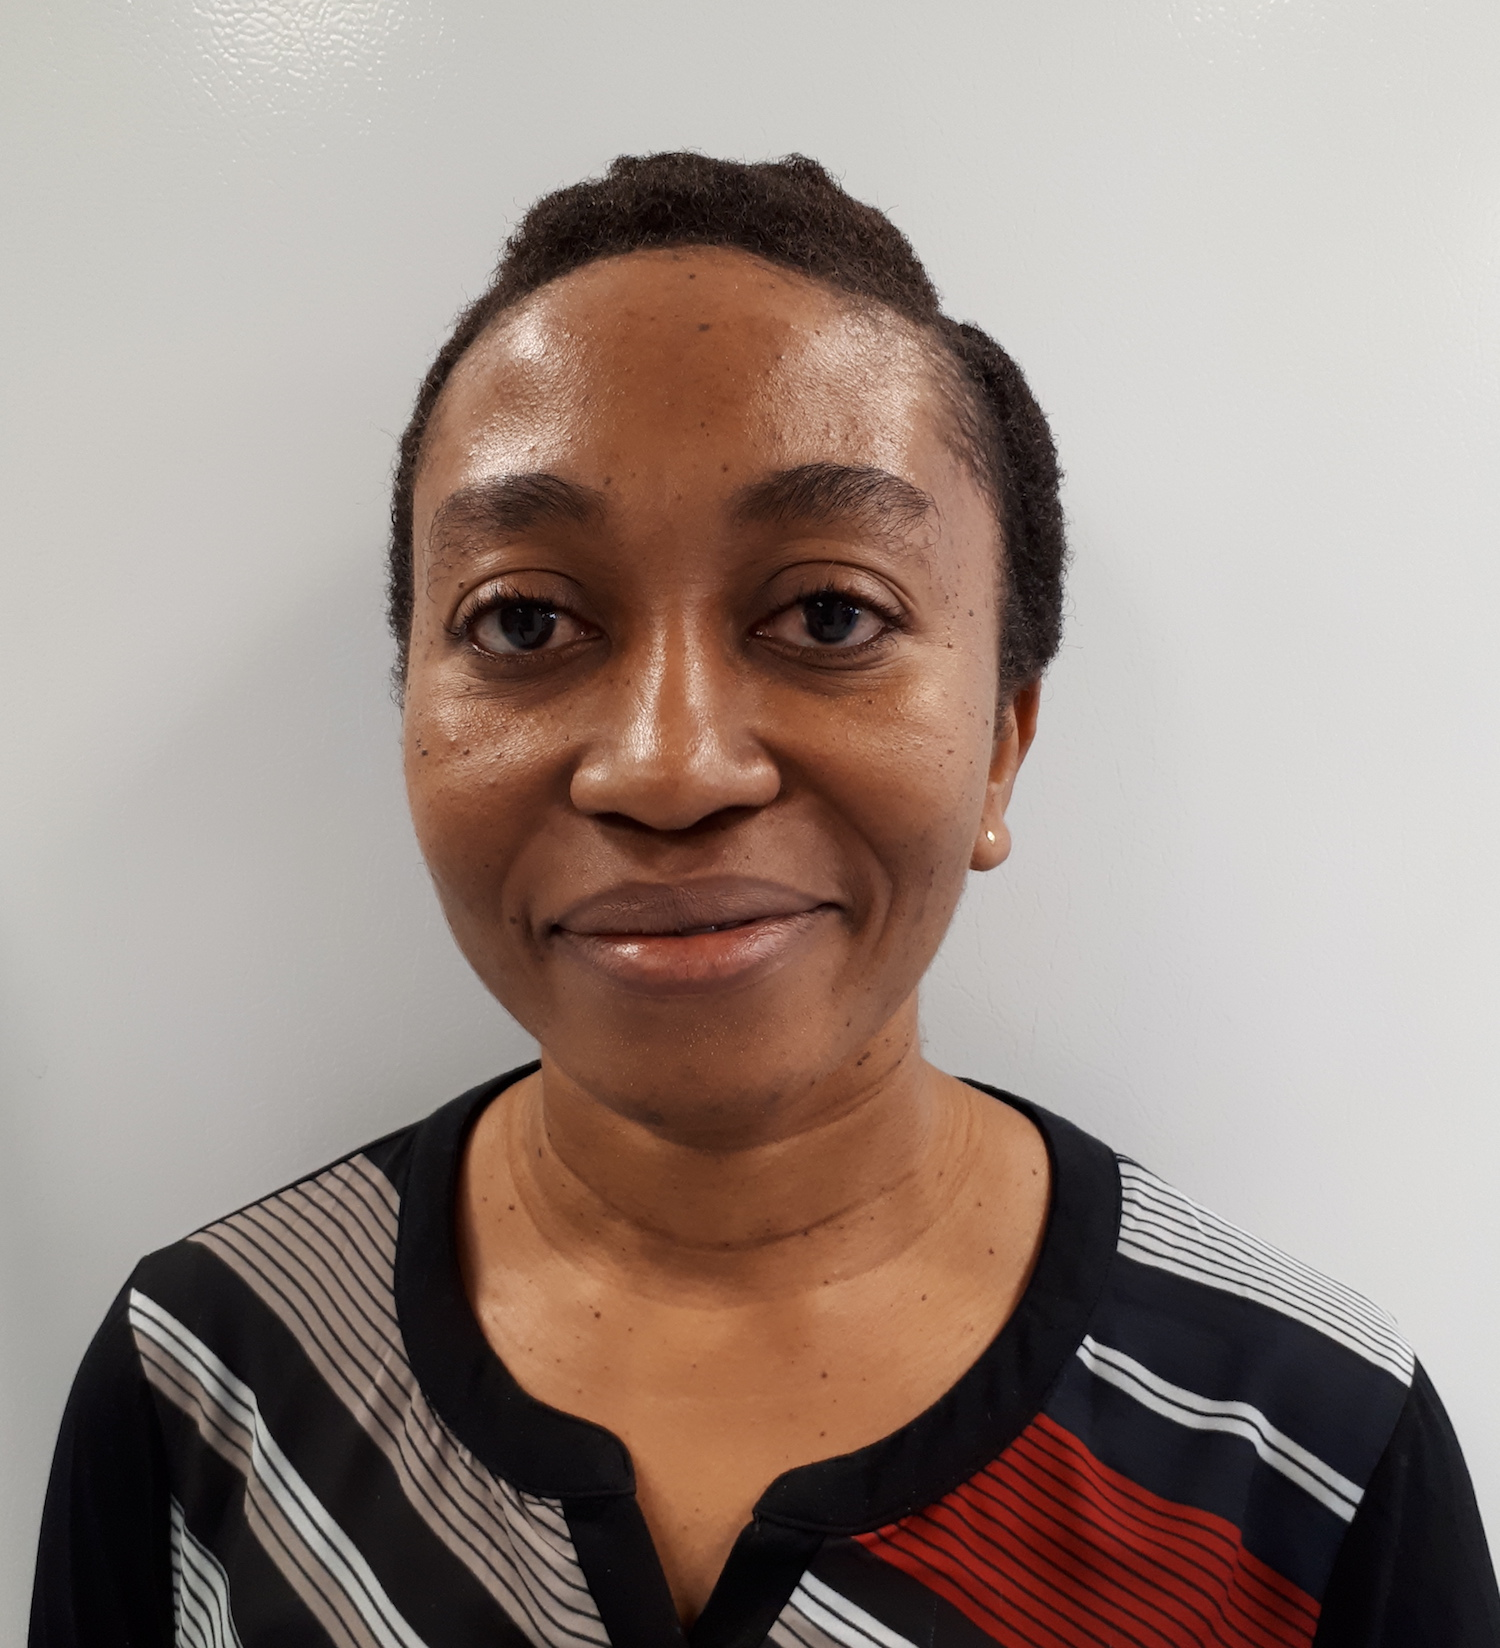
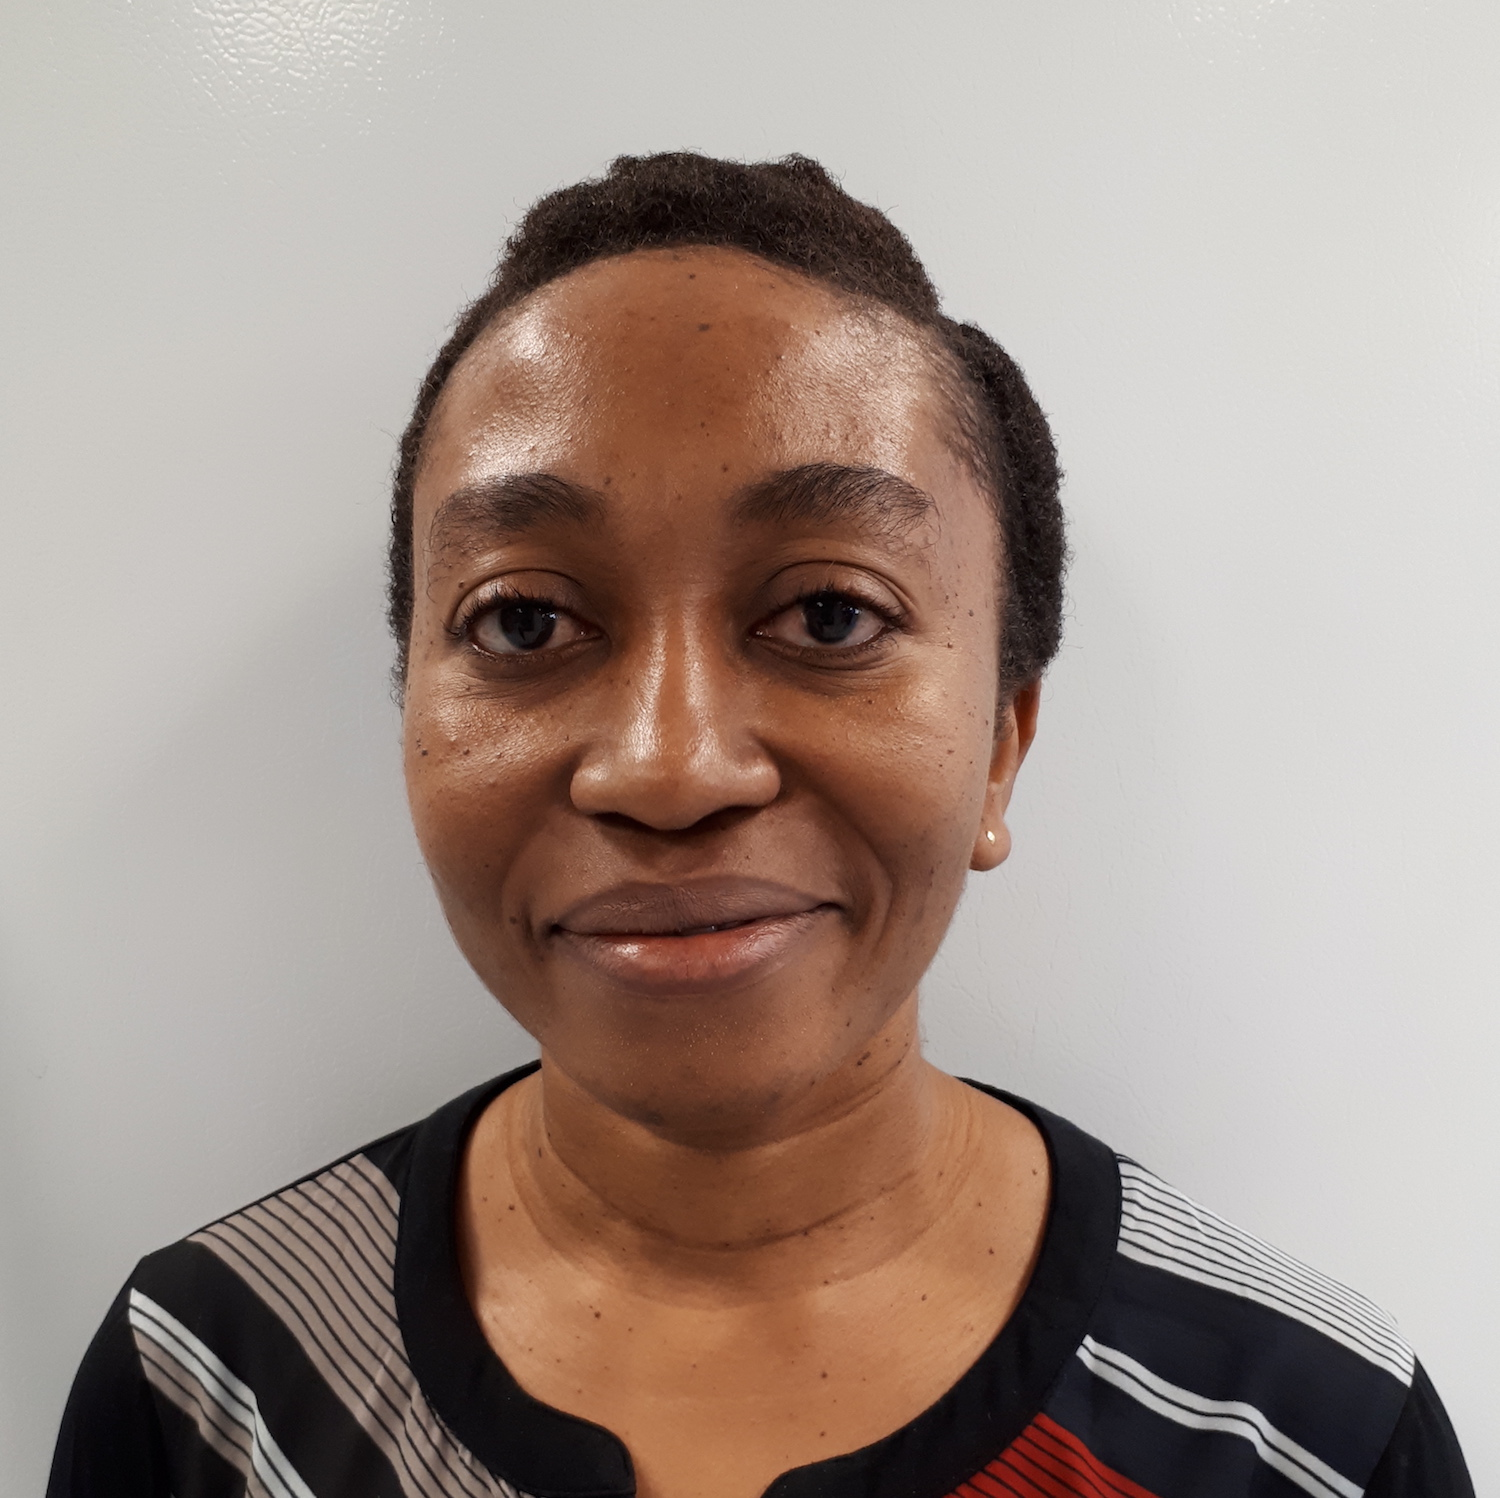
Update headshots and make others square in size

diff --git a/members.html b/members.html
@@ -100,15 +100,32 @@
 										<br>Research Associate
 										<br><a href="http://imr.bio" target="new">IMR</a>, Assistant Manager
 										<td>Email: <a href="mailto:akhilesh.dhanani@dal.ca">akhilesh.dhanani@dal.ca</a>
+									<tr>
+										<td><img src="images/Dhwani.jpg" width=150px>
+										<td><b>Dhwani Desai, PhD</b>
+										<br>Research Associate
+										<br><a href="http://imr.bio" target="new">IMR</a>, Bioinformatics
+										<td>Email: <a href="mailto:Dhwani.Desai@dal.ca ">Dhwani.Desai@dal.ca </a>
 									</tr>
-									
 									<tr>
 										<td><img src="images/Alessi.jpg" width=150px>
 										<td><b>Alessi Kwawukume</b>
 										<br>Research Assistant
-										<br><a href="http://imr.bio" target="new">IMR</a>
+										<br><a href="http://imr.bio" target="new">IMR</a>, Technician
 										<td>Email: <a href="mailto:Alessi.Kwawukume@dal.ca">Alessi.Kwawukume@dal.ca</a>
 									</tr>
+									<tr>
+										<td><img src="images/Vanessa.jpg" width=150px>
+										<td><b>Vanessa DeClercq, PhD</b>
+										<br>Research Associate
+										<br>Department of Pharmacology
+										<td>Email: <a href="mailto:Vanessa.De.Clercq@dal.ca">Vanessa.De.Clercq@dal.ca</a>
+									<tr>
+										<td><img src="images/Robyn.jpg" width=150px>
+										<td><b>Robyn Wright, PhD</b>
+										<br>Post Doc
+										<br>Department of Pharmacology
+										<td>Email: <a href="mailto:Robyn.Wright@dal.ca">Robyn.Wright@dal.ca</a>
 									
 									<tr>
 										<td><img src="images/Gavin.jpg" width=150px>
